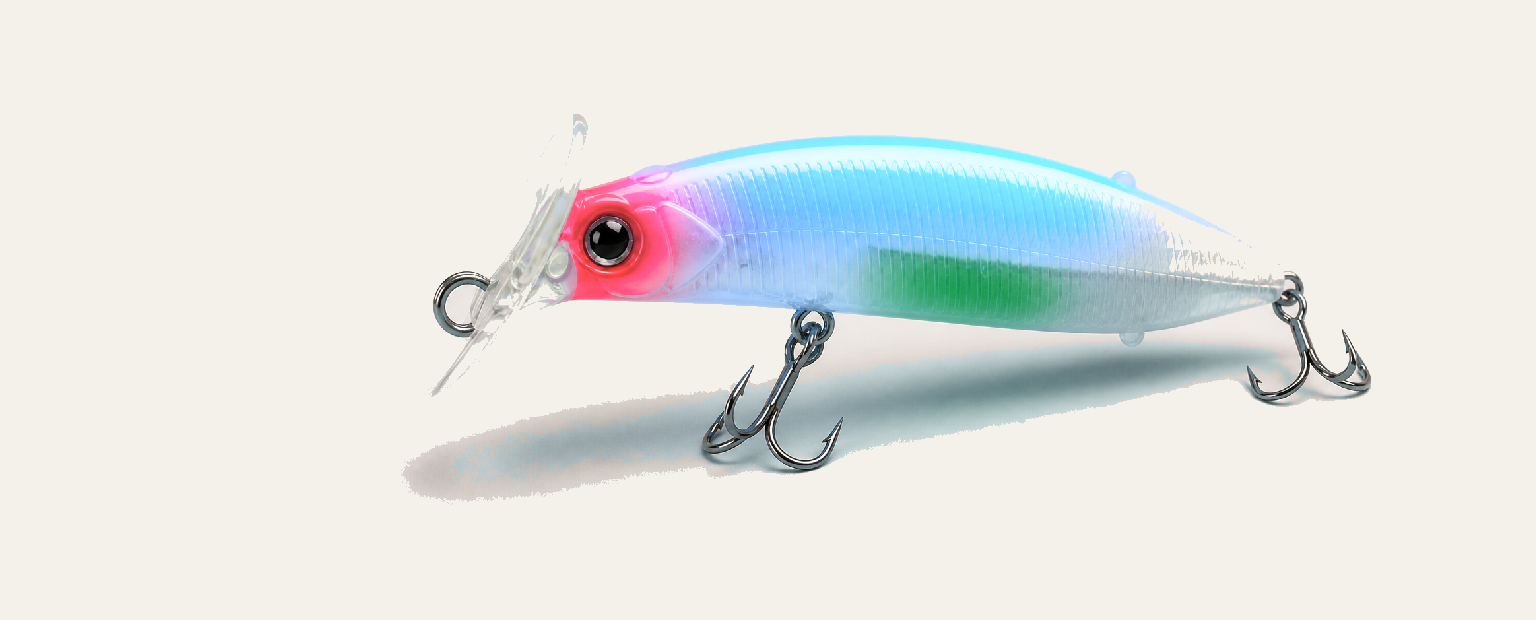
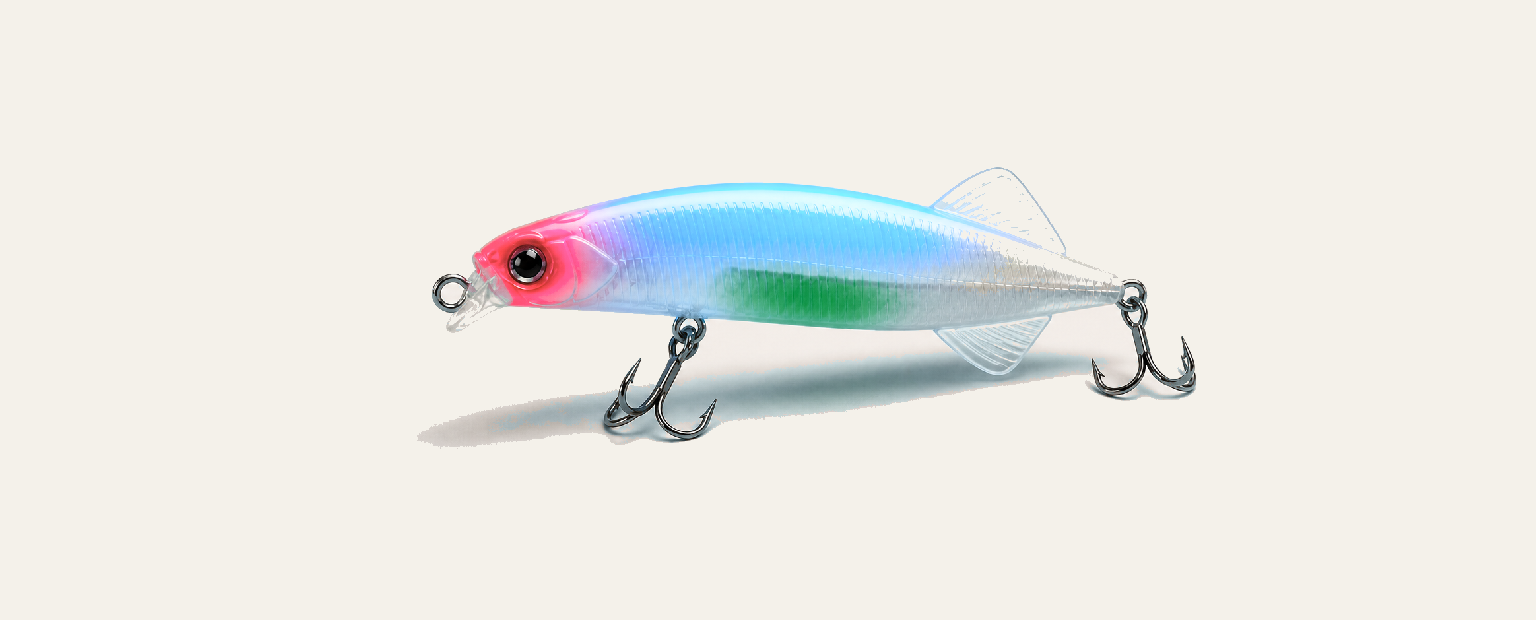
Shrink the diving lip and enlarge the tail fins.

Changed region(s): [[0.25, 0.2145, 0.9062, 0.8274], [0.375, 0.1839, 0.4062, 0.2145]]

diff --git a/index.html b/index.html
@@ -21,7 +21,7 @@
   <meta name="twitter:title" content="Aftercast — Private-label bass and inshore lures">
   <meta name="twitter:description" content="Existing molds, your colors and pack, small runs, quoted to your door.">
   <meta name="twitter:image" content="https://aftercast.net/assets/logo.png">
-  <link rel="stylesheet" href="styles.css?v=lure12">
+  <link rel="stylesheet" href="styles.css?v=lure13">
   <script type="application/ld+json">
   {
     "@context": "https://schema.org",
@@ -152,18 +152,18 @@
             <div class="lure-stage">
               <img
                 data-lure-art
-                data-base="assets/lure/cgi.png?v=lure12"
-                src="assets/lure/cgi.png?v=lure12"
+                data-base="assets/lure/cgi.png?v=lure13"
+                src="assets/lure/cgi.png?v=lure13"
                 alt="Citrus finish on this mold"
               >
             </div>
             <div class="lure-finishes">
               <p class="lure-finishes-title">Your colors on this mold</p>
               <div class="swatches" role="list">
-                <button type="button" class="swatch swatch-citrus is-on" data-finish="citrus" data-src="assets/lure/cgi.png?v=lure12" role="listitem" aria-label="Citrus"></button>
-                <button type="button" class="swatch swatch-blossom" data-finish="blossom" data-src="assets/lure/blossom.png?v=lure12" role="listitem" aria-label="Blossom"></button>
-                <button type="button" class="swatch swatch-gulf" data-finish="gulf" data-src="assets/lure/gulf.png?v=lure12" role="listitem" aria-label="Gulf"></button>
-                <button type="button" class="swatch swatch-leopard" data-finish="leopard" data-src="assets/lure/leopard.png?v=lure12" role="listitem" aria-label="Leopard"></button>
+                <button type="button" class="swatch swatch-citrus is-on" data-finish="citrus" data-src="assets/lure/cgi.png?v=lure13" role="listitem" aria-label="Citrus"></button>
+                <button type="button" class="swatch swatch-blossom" data-finish="blossom" data-src="assets/lure/blossom.png?v=lure13" role="listitem" aria-label="Blossom"></button>
+                <button type="button" class="swatch swatch-gulf" data-finish="gulf" data-src="assets/lure/gulf.png?v=lure13" role="listitem" aria-label="Gulf"></button>
+                <button type="button" class="swatch swatch-leopard" data-finish="leopard" data-src="assets/lure/leopard.png?v=lure13" role="listitem" aria-label="Leopard"></button>
               </div>
             </div>
           </div>
@@ -346,6 +346,6 @@
     <p class="foot-name">Aftercast™ · bass and inshore private label</p>
   </footer>
   <script src="player.js?v=zoom4"></script>
-  <script src="lure-viewer.js?v=lure12"></script>
+  <script src="lure-viewer.js?v=lure13"></script>
 </body>
 </html>
